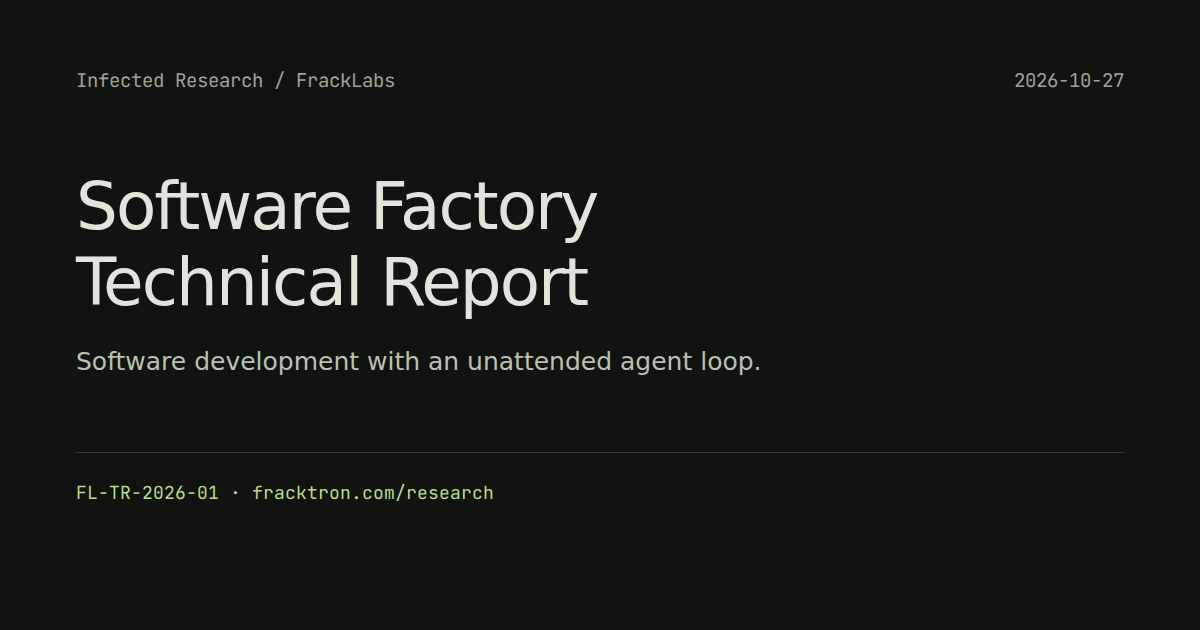
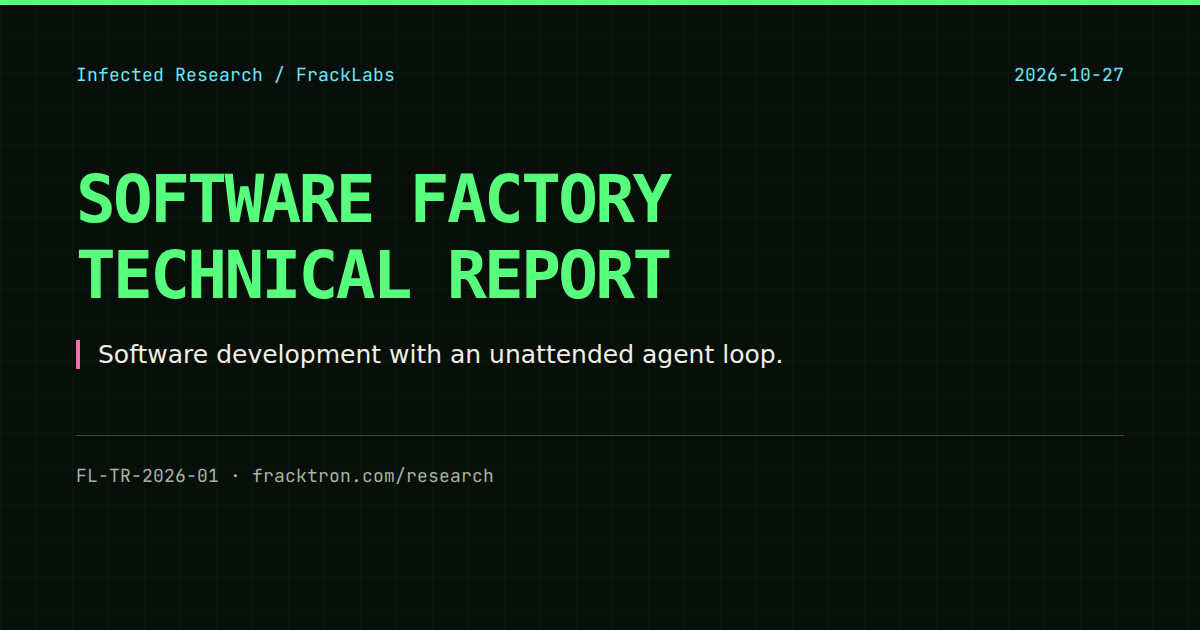
Match research pages to the Fracktron lab aesthetic

diff --git a/site/research.css b/site/research.css
@@ -1,15 +1,11 @@
 @font-face{font-family:LabMono;src:url('/research/fonts/jetbrains-mono-400-normal.woff2') format('woff2');font-weight:400;font-display:swap}
-:root{color-scheme:dark;--bg:#101310;--ink:#e0e5da;--muted:#9ca695;--line:#323b30;--link:#b8db8c}
-*{box-sizing:border-box}
-body{margin:0;background:var(--bg);color:var(--ink);font:16px/1.75 system-ui,sans-serif}
-header,main,footer{max-width:850px;margin:0 auto;padding-inline:28px}
-header{padding-top:32px;display:flex;gap:14px;color:var(--muted);font:13px/1.6 LabMono,monospace}
-a{color:var(--link);text-decoration-thickness:1px;text-underline-offset:4px}a:hover{color:#e2ffc0}a:focus-visible{outline:2px solid var(--link);outline-offset:5px}
-header a{text-decoration:none}
-main{padding-top:52px;padding-bottom:72px;min-height:65vh}
-h1,h2,h3{font-weight:500;line-height:1.35;color:var(--ink)}h1{font-size:32px;letter-spacing:-.025em;margin:0 0 8px}h2{font-size:23px;letter-spacing:-.015em;margin:12px 0}h2 a{text-decoration:none}h2 a:hover{text-decoration:underline}
-p{margin:14px 0;max-width:70ch}.byline,.record,footer,.files,.facts dt{font-family:LabMono,monospace;font-size:12px}.byline{color:var(--muted);margin:0 0 38px}.record{color:var(--muted);display:flex;gap:24px;flex-wrap:wrap;line-height:1.7}
-.entry{border-top:1px solid var(--line);padding-top:24px}.entry>p:not(.record){color:#c0c9b9}.files{display:flex;flex-wrap:wrap;gap:12px 24px;margin:24px 0}.files a{white-space:nowrap}
-footer{border-top:1px solid var(--line);padding-block:20px;color:var(--muted);display:flex;justify-content:space-between}.skip{position:absolute;top:-70px;left:20px;background:var(--bg);padding:10px}.skip:focus{top:0}
-.paper h1{font-size:32px;max-width:650px;margin-top:18px}.paper .subtitle{font-size:18px;color:#c0c9b9}.paper h2{font-size:18px;margin-top:32px}.facts{border-top:1px solid var(--line);border-bottom:1px solid var(--line);padding:16px 0;margin:30px 0}.facts>div{display:grid;grid-template-columns:230px 1fr;padding:7px 0;gap:20px}.facts dt{color:var(--muted)}.facts dd{margin:0;font-size:15px}.note{font-size:14px;color:var(--muted)}.citation{font-size:14px;color:var(--muted)}
-@media(max-width:600px){header,main,footer{padding-inline:22px}main{padding-top:36px;padding-bottom:48px}h1,.paper h1{font-size:28px}h2{font-size:21px}.record{display:block}.record span{display:block;margin-top:4px}.facts>div{grid-template-columns:1fr;gap:2px;padding:9px 0}body{font-size:15px}.byline{font-size:11px}.files{gap:12px 20px}}
+:root{color-scheme:dark;--bg:#080e09;--ink:#f0f0e5;--muted:#a5b4a2;--line:#384b37;--green:#58ff7d;--cyan:#69e7f8;--pink:#f56ca8;--yellow:#ffd166;--mono:LabMono,ui-monospace,monospace}
+*{box-sizing:border-box}body{margin:0;background:radial-gradient(ellipse at 78% 20%,#18371e55,transparent 55%),linear-gradient(#58ff7d03 1px,transparent 1px),linear-gradient(90deg,#58ff7d03 1px,transparent 1px),var(--bg);background-size:auto,36px 36px,36px 36px,auto;color:var(--ink);font:16px/1.65 system-ui,sans-serif}body::before{content:"";position:fixed;inset:0;pointer-events:none;z-index:5;background:repeating-linear-gradient(transparent 0 3px,#00000012 3px 4px);opacity:.35}
+a{color:var(--cyan);text-underline-offset:5px;text-decoration-thickness:1px}a:hover{color:var(--green)}a:focus-visible{outline:3px solid var(--yellow);outline-offset:5px}::selection{background:var(--green);color:var(--bg)}
+header{border-bottom:2px solid var(--green);background:#050905e8}.header-inner,main,footer{width:min(1180px,calc(100% - 64px));margin-inline:auto}.header-inner{min-height:66px;display:flex;align-items:center;justify-content:space-between;gap:24px}.wordmark{color:var(--ink);font:bold 17px/1.3 ui-monospace,monospace;letter-spacing:-1px;text-decoration:none;white-space:nowrap}.wordmark span{color:var(--green)}header nav{display:flex;gap:30px;font:12px var(--mono)}header nav a{text-decoration:none;color:var(--muted);padding:22px 0 17px;border-bottom:2px solid transparent}header nav a::before{content:"#";color:var(--muted)}header nav a[aria-current]{color:var(--green);border-color:var(--pink)}.header-note{font:9px var(--mono);letter-spacing:.06em;color:var(--muted)}
+main{padding-block:58px 60px}.index-heading{display:flex;justify-content:space-between;align-items:center;margin-bottom:44px}.eyebrow{font:10px/1.7 var(--mono);font-weight:bold;letter-spacing:.13em;color:var(--green);margin:0 0 12px}h1{font:900 64px/1 ui-monospace,monospace;letter-spacing:-.065em;text-transform:uppercase;margin:0 0 16px}.byline{margin:0;color:var(--muted);font:14px/1.6 var(--mono)}.index-count{font:10px/1.6 var(--mono);color:var(--muted);text-align:right;border-left:1px solid var(--line);padding-left:30px}.index-count b{font:400 42px/1.3 var(--mono);color:var(--green)}
+.entry{position:relative;border:1px solid #6c7965;background:linear-gradient(120deg,#15201780,#080d09d9);box-shadow:9px 9px 0 #19321b70}.entry::before{content:"";position:absolute;width:88px;height:20px;top:-11px;left:32px;background:#d8d0a6bd;transform:rotate(-4deg)}.entry-top{display:flex;align-items:center;gap:26px;margin:0 26px;padding:22px 0 15px;border-bottom:1px solid var(--line);font:10px/1.5 var(--mono);color:var(--muted);letter-spacing:.05em}.preliminary{margin-left:auto;color:var(--yellow)}.entry-grid{display:grid;grid-template-columns:1.15fr 1fr;gap:42px;padding:32px 30px 28px;align-items:start}.entry-copy{padding:10px 0}.entry h2{margin:18px 0 22px;font:900 46px/1.05 ui-monospace,monospace;letter-spacing:-.055em;text-transform:uppercase}.entry h2 a{color:var(--ink);text-decoration:none}.entry h2 a:hover>span{color:var(--green)}.entry h2 span{display:block;max-width:440px}.entry h2 small{display:block;color:var(--green);font-size:22px;letter-spacing:-.04em;margin-top:10px}.subtitle{font-size:19px;line-height:1.5;color:var(--ink)}.entry-copy>p:not(.eyebrow):not(.subtitle){color:var(--muted);font-size:15px;line-height:1.7}.entry-copy .annotation{font:11px/1.7 var(--mono)!important;border-left:3px solid var(--pink);padding:8px 0 8px 14px;margin:24px 0}.files{display:flex;align-items:center;flex-wrap:wrap;gap:18px 22px;font:11px/1.5 var(--mono);margin:30px 0 6px}.files a{white-space:nowrap}.files .primary-file{display:flex;gap:28px;justify-content:space-between;background:var(--green);color:#041106;padding:14px 18px;font-weight:bold;box-shadow:4px 4px 0 var(--pink);text-decoration:none;margin-right:4px}.files .primary-file:hover{background:#b4ffc2}
+.review-plot{margin:0;border:1px solid var(--line);padding:14px 18px 12px;background:#050a07c9}.review-plot figcaption{display:flex;justify-content:space-between;gap:12px;font:9px/1.7 var(--mono);color:var(--cyan);border-bottom:1px dashed var(--line);padding-bottom:11px}.review-plot figcaption span:last-child{color:var(--muted)}.review-plot img{display:block;width:100%;height:auto;margin-top:10px}.review-plot p{font:9px/1.5 var(--mono);color:var(--muted);margin:0;text-align:right}.run-numbers{display:grid;grid-template-columns:repeat(3,1fr);margin:0 30px;padding:22px 0;border-block:1px solid var(--line)}.run-numbers>div{padding-left:28px;border-left:1px dashed var(--line)}.run-numbers>div:first-child{padding-left:0;border-left:0}.run-numbers dt{font:9px/1.6 var(--mono);letter-spacing:.08em;color:var(--muted)}.run-numbers dd{font:700 33px/1.5 ui-monospace,monospace;margin:5px 0 0;letter-spacing:-.04em}.run-numbers dd span{color:var(--green)}.run-numbers p{font:10px/1.6 var(--mono);color:var(--muted);margin:0}.entry-bottom{display:flex;justify-content:space-between;gap:16px;padding:17px 30px;font:10px/1.5 var(--mono);color:var(--muted)}.index-note{font:11px/1.8 var(--mono);color:var(--muted);margin:30px 0 0;max-width:80ch}footer{display:flex;justify-content:space-between;gap:20px;border-top:1px solid var(--line);padding-block:22px 32px;font:11px/1.6 var(--mono)}footer>span{color:var(--green)}.muted{color:var(--muted)}.skip{position:absolute;top:-80px;left:20px;background:var(--bg);padding:10px;z-index:10}.skip:focus{top:8px}
+.paper{max-width:960px;padding-block:48px 70px}.paper h1{font-size:48px;line-height:1.1;margin:22px 0;max-width:850px}.paper h2{font:700 19px ui-monospace,monospace;margin-top:32px;color:var(--green)}.paper .subtitle{font-size:21px}.paper .byline{font-size:12px}.paper>p{max-width:78ch}.record{display:flex;gap:24px;font:11px/1.7 var(--mono);color:var(--muted)}.facts{border:1px solid var(--line);background:#0c180f;padding:18px 24px;margin:30px 0;box-shadow:5px 5px 0 #19321b70}.facts>div{display:grid;grid-template-columns:230px 1fr;padding:9px 0;gap:20px}.facts dt{font:11px/1.7 var(--mono);color:var(--muted)}.facts dd{margin:0;font-size:15px}.note,.citation{font-size:14px;color:var(--muted)}
+@media(max-width:1000px){.header-note{display:none}.entry-grid{gap:25px}.entry h2{font-size:39px}.files{gap:16px}.entry-grid{grid-template-columns:1fr 1fr}.review-plot{padding-inline:12px}}
+@media(max-width:700px){.header-inner,main,footer{width:calc(100% - 32px)}.header-inner{min-height:94px;flex-wrap:wrap;gap:0;padding-top:15px}.wordmark{font-size:16px}header nav{width:100%;justify-content:space-between;gap:20px}header nav a{padding:12px 0 10px;font-size:11px}main{padding-top:34px}.index-heading{margin-bottom:35px;gap:10px}h1{font-size:44px}.eyebrow{font-size:8px}.byline{font-size:11px;max-width:25ch}.index-count{padding-left:16px;font-size:8px}.index-count b{font-size:32px}.entry-top{margin-inline:16px;gap:13px;font-size:8px;padding-top:23px}.preliminary{max-width:85px;text-align:right}.entry-grid{grid-template-columns:1fr;padding:24px 18px;gap:28px}.entry-copy{padding:0}.entry h2{font-size:38px;margin:16px 0}.entry h2 small{font-size:20px}.subtitle{font-size:18px}.entry-copy>p:not(.eyebrow):not(.subtitle){font-size:14px}.files{font-size:10px;gap:18px 20px}.files .primary-file{width:100%;padding:14px 18px;margin-bottom:7px}.review-plot{padding:14px}.review-plot figcaption{font-size:8px}.run-numbers{margin-inline:18px;grid-template-columns:1fr;padding:0}.run-numbers>div{padding:14px 0!important;border-left:0;border-bottom:1px dashed var(--line);display:grid;grid-template-columns:1fr auto;gap:4px 12px;align-items:center}.run-numbers>div:last-child{border-bottom:0}.run-numbers dd{font-size:29px;grid-row:1 / 3;grid-column:2;margin:0}.run-numbers dt{font-size:8px}.run-numbers p{font-size:9px;max-width:19ch}.entry-bottom{padding:16px 18px;flex-direction:column;gap:10px;font-size:9px}.index-note{font-size:10px;margin-top:24px}.paper h1{font-size:35px}.paper .subtitle{font-size:18px}.record{display:block;font-size:10px}.record span{display:block;margin-top:3px}.facts{padding:15px 18px}.facts>div{grid-template-columns:1fr;gap:4px;padding:10px 0}body{font-size:15px}footer{font-size:10px}}

diff --git a/site/index.html b/site/index.html
@@ -11,16 +11,24 @@
 <meta name="twitter:card" content="summary_large_image">
 </head><body>
 <a class="skip" href="#main">Skip to research</a>
-<header><a href="/">fracktron</a><span>/</span><span>research</span></header>
+<header><div class="header-inner"><a class="wordmark" href="/"><span>[</span> FRACKTRON <span>]</span></a><nav aria-label="Site navigation"><a href="/">Home</a><a href="/research/" aria-current="page">Research</a><a href="https://github.com/infectedresearch/software-factory">GitHub</a></nav><span class="header-note">INFECTED RESEARCH / FRACKLABS</span></div></header>
 <main id="main">
+<div class="index-heading"><div><p class="eyebrow">FRACKLABS / EXPERIMENT RECORDS</p>
 <h1>Research</h1>
-<p class="byline">Infected Research / FrackLabs</p>
+<p class="byline">Papers, code, and results from the lab.</p></div><span class="index-count">INDEX<br><b>001</b></span></div>
 <section class="entry" aria-labelledby="paper-title">
-<p class="record"><time datetime="2026-10-27">2026-10-27</time><span>FL-TR-2026-01 · preliminary</span></p>
-<h2 id="paper-title"><a href="/research/software-factory/">Software Factory Technical Report</a></h2>
-<p>Software development with an unattended agent loop.</p>
-<p>We ran 14 coding agents overnight on our production codebase. They wrote 132 commits; 110 survived review and initial integration. The report covers the run, review decisions, costs, and deployment.</p>
-<nav class="files" aria-label="Publication files"><a href="/research/software-factory/software-factory-technical-report.pdf">PDF</a><a href="/research/software-factory/report.html">HTML</a><a href="/research/software-factory/software-factory-artifacts.zip">Code + data (.zip)</a><!-- GITHUB_LINK --></nav>
+<div class="entry-top"><span>FL-TR-2026-01</span><time datetime="2026-10-27">27 OCT 2026</time><span class="preliminary">PRELIMINARY REPORT</span></div>
+<div class="entry-grid"><div class="entry-copy">
+<p class="eyebrow">01 / SOFTWARE ENGINEERING</p>
+<h2 id="paper-title"><a href="/research/software-factory/"><span>Software Factory</span> <small>Technical Report</small></a></h2>
+<p class="subtitle">Software development with an unattended agent loop.</p>
+<p>We ran 14 coding agents overnight on our production codebase. They wrote 132 commits; 110 survived review and initial integration.</p>
+<p class="annotation">The run, the review decisions, the costs, and what shipped.</p>
+<nav class="files" aria-label="Publication files"><a class="primary-file" href="/research/software-factory/software-factory-technical-report.pdf">READ THE PAPER <span aria-hidden="true">↗</span></a><a href="/research/software-factory/report.html">HTML</a><a href="/research/software-factory/software-factory-artifacts.zip">Code + data</a><!-- GITHUB_LINK --></nav>
+</div><figure class="review-plot"><figcaption><span>RUN 01 / COMMIT REVIEW</span><span>14 SCOPED LANES</span></figcaption><img src="lane-review.svg" width="430" height="394" alt="Original keep, fix and drop decisions across the fourteen scoped lanes. Bar lengths show commit counts; these are review verdicts, not deployment totals."><p>Original review verdicts · one bar per lane</p></figure></div>
+<dl class="run-numbers"><div><dt>FACTORY COMMITS</dt><dd>132 <span>→</span> 110</dd><p>written → initially integrated</p></div><div><dt>TOKENS PROCESSED</dt><dd>848M</dd><p>including cached reads</p></div><div><dt>RECORDED COST</dt><dd>≈$493</dd><p>list-price accounting snapshot</p></div></dl>
+<div class="entry-bottom"><span>Paper / harness / sanitized data / figures</span><a href="/research/software-factory/">Report details →</a></div>
 </section>
-</main><footer><span>FrackLabs</span><a href="/research/feed.xml">RSS</a></footer>
+<p class="index-note">One run on one codebase. Value estimates and verification limits are in the paper.</p>
+</main><footer><span>infected research <span class="muted">/</span> fracklabs</span><a href="/research/feed.xml">RSS ↗</a></footer>
 </body></html>

diff --git a/site/software-factory/index.html b/site/software-factory/index.html
@@ -6,7 +6,7 @@
 <meta property="og:description" content="Software development with an unattended agent loop. Infected Research / FrackLabs, October 2026.">
 <meta property="og:url" content="https://fracktron.com/research/software-factory/"><meta property="og:image" content="https://fracktron.com/research/social-card.png"><meta name="twitter:card" content="summary_large_image">
 <meta name="citation_title" content="Software Factory Technical Report"><meta name="citation_author" content="Infected Research / FrackLabs"><meta name="citation_publication_date" content="2026/10/27"><meta name="citation_pdf_url" content="https://fracktron.com/research/software-factory/software-factory-technical-report.pdf">
-</head><body><a class="skip" href="#main">Skip to report</a><header><a href="/">fracktron</a><span>/</span><a href="/research/">research</a></header>
+</head><body><a class="skip" href="#main">Skip to report</a><header><div class="header-inner"><a class="wordmark" href="/"><span>[</span> FRACKTRON <span>]</span></a><nav aria-label="Site navigation"><a href="/">Home</a><a href="/research/" aria-current="page">Research</a><a href="https://github.com/infectedresearch/software-factory">GitHub</a></nav><span class="header-note">INFECTED RESEARCH / FRACKLABS</span></div></header>
 <main id="main" class="paper">
 <p class="record"><time datetime="2026-10-27">2026-10-27</time><span>FL-TR-2026-01 · preliminary</span></p>
 <h1>Software Factory Technical Report</h1>
